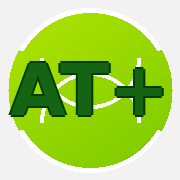
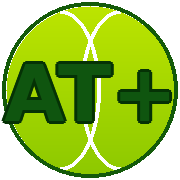
Actualizar sección encordados con todos los servicios + ícono AT+ mejorado

diff --git a/index.html b/index.html
@@ -197,12 +197,17 @@
       <div class="lcard"><div class="ic">👶</div><div style="flex:1"><div class="nm">Grupo Iniciación · 3 a 7 años</div><div class="ds">Sábados · 1h 30min · grupales</div></div><button class="mini" onclick="openModal('clase')">Inscribir</button></div>
       <div class="lcard"><div class="ic">👥</div><div style="flex:1"><div class="nm">Clases grupales</div><div class="ds">Lun / Mié / Sáb · desde 3 años</div></div><button class="mini" onclick="openModal('clase')">Inscribir</button></div>
       <div class="lcard"><div class="ic">🎾</div><div style="flex:1"><div class="nm">Clases individuales</div><div class="ds">Horario a convenir</div></div><button class="mini" onclick="openModal('clase')">Inscribir</button></div>
-      <div class="section-title">Encordados ATMAS</div>
-      <div class="lcard"><div class="ic">🎯</div><div style="flex:1"><div class="nm">Control</div><div class="ds">Mayor precisión y dirección</div></div><button class="mini" onclick="openModal('encordado')">Solicitar</button></div>
-      <div class="lcard"><div class="ic">🏆</div><div style="flex:1"><div class="nm">Competencia</div><div class="ds">Rendimiento total en cada punto</div></div><button class="mini" onclick="openModal('encordado')">Solicitar</button></div>
-      <div class="lcard"><div class="ic">⚡</div><div style="flex:1"><div class="nm">Potencia</div><div class="ds">Máxima salida de bola</div></div><button class="mini" onclick="openModal('encordado')">Solicitar</button></div>
-      <div class="lcard"><div class="ic">🔀</div><div style="flex:1"><div class="nm">Híbridos</div><div class="ds">Comodidad + control</div></div><button class="mini" onclick="openModal('encordado')">Solicitar</button></div>
-      <p class="foot">@ATMAS_TENIS · @atmas_tenischile</p>
+      <div class="section-title">Servicios ATMAS 🔧</div>
+      <div class="lcard"><div class="ic">🛠</div><div style="flex:1"><div class="nm">Mano de obra</div><div class="ds">Encordado profesional</div></div><button class="mini" onclick="openModal('encordado')">Solicitar</button></div>
+      <div class="lcard"><div class="ic">🧵</div><div style="flex:1"><div class="nm">Venta de cuerdas</div><div class="ds">Distintas marcas y tensiones</div></div><button class="mini" onclick="openModal('encordado')">Solicitar</button></div>
+      <div class="lcard"><div class="ic">✊</div><div style="flex:1"><div class="nm">Cambio de grip</div><div class="ds">Mayor comodidad y agarre</div></div><button class="mini" onclick="openModal('encordado')">Solicitar</button></div>
+      <div class="lcard"><div class="ic">🧢</div><div style="flex:1"><div class="nm">Cubre cabeza</div><div class="ds">Protección para tu raqueta</div></div><button class="mini" onclick="openModal('encordado')">Solicitar</button></div>
+      <div class="section-title">Tipos de encordado</div>
+      <div class="lcard"><div class="ic">🔀</div><div style="flex:1"><div class="nm">Híbridos</div><div class="ds">Lo mejor de dos mundos · Comodidad + control</div></div><button class="mini" onclick="openModal('encordado')">Solicitar</button></div>
+      <div class="lcard"><div class="ic">🎯</div><div style="flex:1"><div class="nm">Control</div><div class="ds">Mayor precisión y dirección · Para jugadores exigentes</div></div><button class="mini" onclick="openModal('encordado')">Solicitar</button></div>
+      <div class="lcard"><div class="ic">🏆</div><div style="flex:1"><div class="nm">Competencia</div><div class="ds">Rendimiento total en cada punto · Para competir al máximo</div></div><button class="mini" onclick="openModal('encordado')">Solicitar</button></div>
+      <div class="lcard"><div class="ic">⚡</div><div style="flex:1"><div class="nm">Potencia</div><div class="ds">Máxima salida de bola · Más fuerza, más ganadores</div></div><button class="mini" onclick="openModal('encordado')">Solicitar</button></div>
+      <p class="foot">@ATMAS_TENIS · Club de Tenis Las Avestruces</p>
     </section>
     <section class="screen" id="perfil">
       <div class="mycard">
